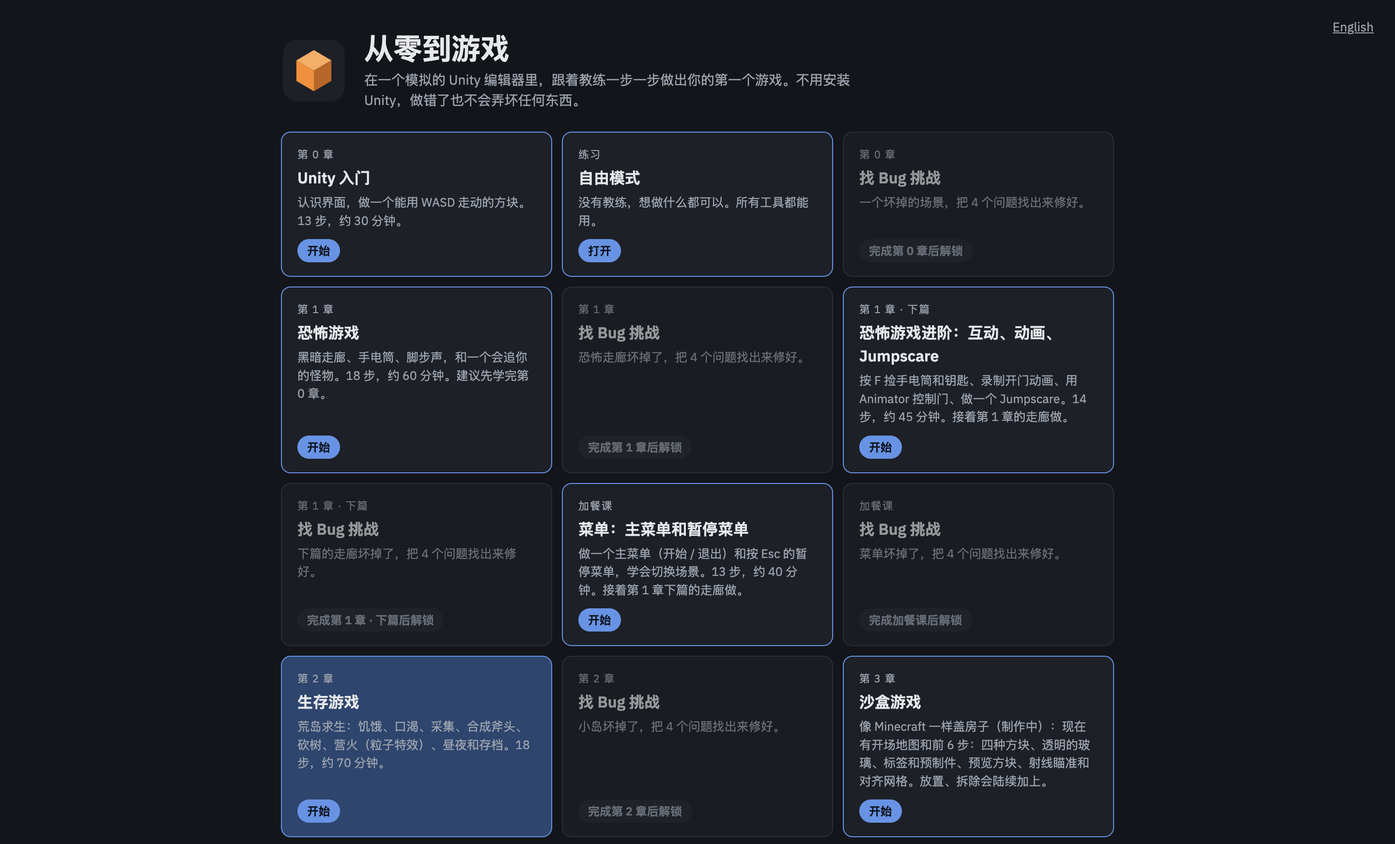
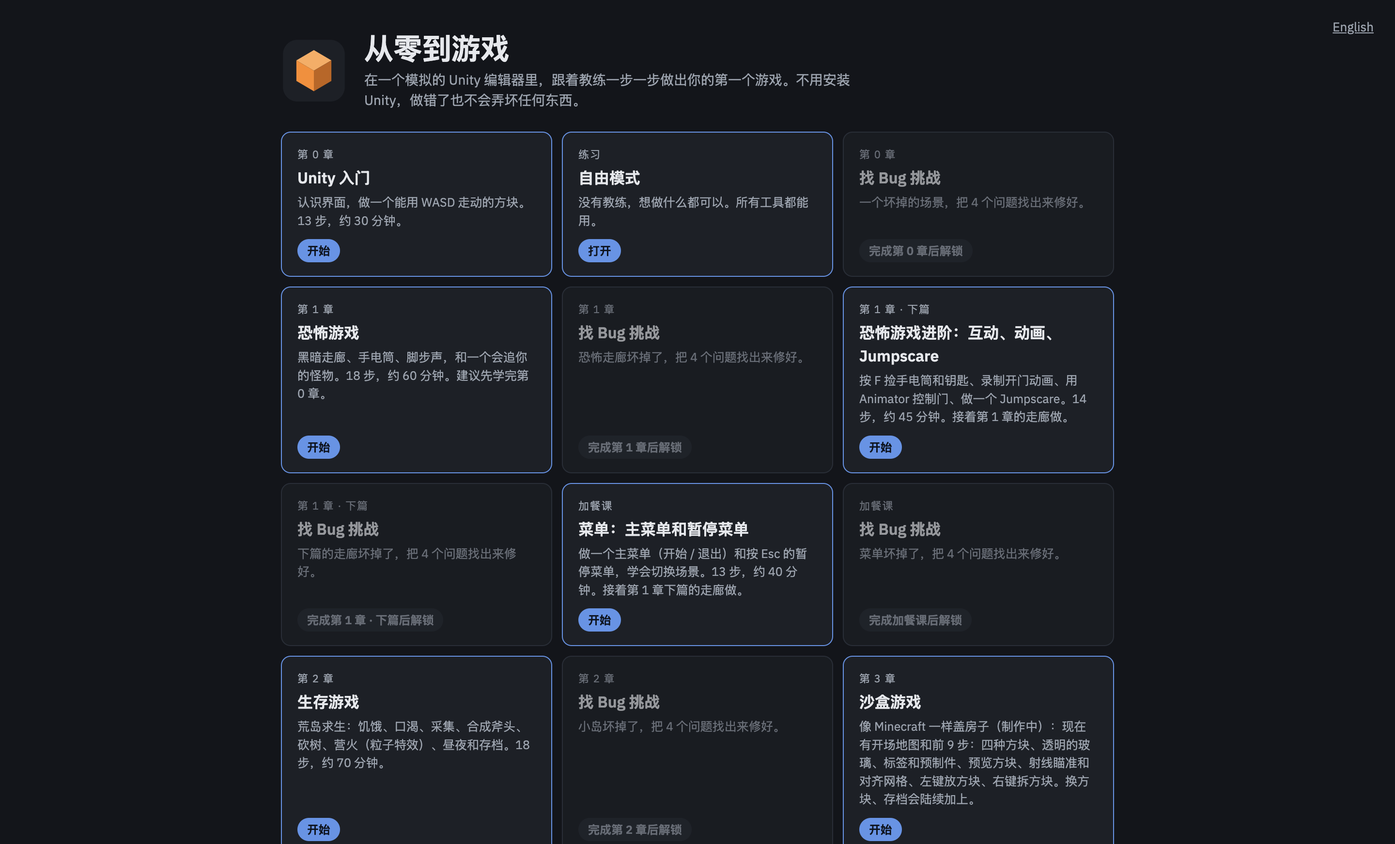
feat: chapter 3 placing and removing blocks
Adds chapter 3 steps 7-9 as BuildSystem versions 2-4: left-click places a
prefab with Instantiate, right-click removes Block-tagged objects with
CompareTag + Destroy, and Physics.CheckBox stops placing inside the player
or another block. The editor now reads mouse buttons during Play, supports
prefab fields, and the export guide names referenced objects instead of ids.

Changed region(s): [[0.1875, 0.7741, 0.5, 1.0], [0.5938, 0.8979, 0.7812, 1.0]]

diff --git a/app/chapters/ch3.js b/app/chapters/ch3.js
@@ -1,6 +1,6 @@
 // 第 3 章：沙盒游戏 —— 像 Minecraft 一样在地图上盖房子（画面不是像素风，方块用平滑的颜色）。
 // 开场：一张做好的地图（沙滩、土地、城市）和一个做好的第一人称玩家。
-// 现在有前 6 步：准备（四种方块、透明的玻璃、标签 Block 和预制件）+ 瞄准（预览方块、BuildSystem 射线和网格、hit.normal）。放置、拆除之后再加。
+// 现在有前 9 步：准备（四种方块、透明的玻璃、标签 Block 和预制件）+ 瞄准（预览方块、BuildSystem 射线和网格、hit.normal）+ 放和拆（Instantiate、CompareTag + Destroy、Physics.CheckBox）。
 (() => {
 'use strict';
 const G = window.ZTG;
@@ -57,6 +57,12 @@ function refSlot(host, name, fid, target) {
   const s = scriptOn(host, name); if (!s || !target || s.vals[fid] === target.id) return null;
   return selFirst(host) || {from:H().row(target.id), to:slotSel(host, name, fid, 'ref'), label:T(`把 ${target.name} 拖进 ${fid} 格子`, `Drag ${target.name} into the ${fid} slot`)};
 }
+// 把项目窗口里的预制件拖进脚本的 GameObject 格子
+function prefabSlot(host, name, fid, pa) {
+  const s = scriptOn(host, name); if (!s || !pa || s.vals[fid] === pa.id) return null;
+  const r = H().reach(pa); if (r.nav) return r;
+  return selFirst(host) || {from:r.at, to:slotSel(host, name, fid, 'pref'), label:T(`把预制件 ${pa.name} 拖进 ${fid} 格子`, `Drag the ${pa.name} prefab into the ${fid} slot`)};
+}
 const refOk = (host, name, fid, target) => { const s = scriptOn(host, name); return !!s && !!target && s.vals[fid] === target.id; };
 const playStep = (doneFlag, during) => {
   if (!G.S.playing) return doneFlag ? null : {at:'#playbtn', label:T('点播放', 'Click Play')};
@@ -76,6 +82,8 @@ const glassMat = () => matNamed('Glass_Mat');
 const glassOk = m => !!m && m.surface === 'transparent' && m.alpha != null && m.alpha <= .6 && m.alpha >= .05 && isBlue(m.color);
 const prefabOf = n => Object.values(G.S.prefabs).find(pf => pf.name === n && G.asset(pf.assetId));
 const hasTag = () => G.allTags().includes('Block');
+const prefabAsset = n => { const pf = prefabOf(n); return pf ? G.asset(pf.assetId) : null; };
+const bsRt = () => { const a = scriptA('BuildSystem'); return a && a.comp ? a.comp.rt : {}; };
 const preview = () => G.S.objs.find(o => o.type === 'cube' && o.name === 'Preview');
 const lum = c => { const [r, g, b] = rgb(c); return .2126 * r + .7152 * g + .0722 * b; };
 const isLight = c => lum(c) > .75;
@@ -200,17 +208,60 @@ const STEPS = [
   hint:T('新加的那一行左边有一条绿线。真 Unity 里没有这个按钮，你要自己把这一行打进去。', 'The new line has a green bar on its left. Real Unity has no such button — you’d type the line yourself.'),
   note:T('现在对着方块的顶面、侧面，预览都会贴在外面：下一步就可以放方块了。', 'Now the preview sits outside both the top and the sides of a block — ready for placing blocks next.'),
   auto:() => { if (G.S.playing) G.stopPlay(); const c = cam(); if (!c) return; const pv = preview(); const s = attach(c, 'BuildSystem', 1); if (pv) s.vals.preview = pv.id; G.S.flags.sideAim = true; }},
+
+ // 7
+ {title:T('左键放方块', 'Left-click to place a block'), glow:() => G.S.playing ? ['#playbtn'] : ['#p-proj', '#p-insp'], play:true, upgrade:{name:'BuildSystem', ver:2},
+  point:() => { const c = cam(); if (!c) return null;
+    if (!G.S.playing) { const sf = scriptFlow('BuildSystem', c, 2); if (sf) return sf; const r = prefabSlot(c, 'BuildSystem', 'block', prefabAsset('Dirt')); if (r) return r; }
+    return playStep((G.S.flags.placed || 0) >= 3, {at:'#cwrap', label:T('看着地面按鼠标左键，放 3 个方块', 'Look at the ground and left-click to place 3 blocks')}); },
+  body:T('打开 BuildSystem，点「加入这一步的新代码」：按鼠标 <b>左键</b> 就调用 Place()，它用 <b>Instantiate</b> 照着预制件复制出一个新方块，放在预览的位置。填好 2 个空，保存，再把项目窗口里的 <b>Dirt 预制件</b> 拖进检查器的 Block 格子。点播放，放几个方块，还可以叠高。',
+         'Open BuildSystem and click “Add this step’s code”: a <b>left-click</b> calls Place(), which uses <b>Instantiate</b> to make a new copy of the prefab where the preview is. Fill the 2 blanks, save, then drag the <b>Dirt prefab</b> from the Project window into the Block slot in the Inspector. Press Play and place a few blocks — you can stack them too.'),
+  conds:[[T('加入这一步的新代码，填好 2 个空并保存', 'Add this step’s code, fill the 2 blanks and save'), () => codeOk('BuildSystem', 2) && bsRt().left === 'Mouse0'],
+         [T('把 Dirt 预制件拖进 Block 格子', 'Drag the Dirt prefab into the Block slot'), () => { const s = scriptOn(cam(), 'BuildSystem'), pa = prefabAsset('Dirt'); return !!s && !!pa && s.vals.block === pa.id; }],
+         [T('点播放，用左键放 3 个方块', 'Press Play and place 3 blocks with left-click'), () => (G.S.flags.placed || 0) >= 3]],
+  hint:T('第一次点画面是让鼠标锁住（用来转头），这一下也会放一个方块，和真 Unity 一样。放出来的方块会出现在层级最下面；停止播放后它们都会消失，这是播放模式，存档在后面做。', 'The first click locks the mouse (for looking around), and that click also places a block — same as real Unity. New blocks appear at the bottom of the Hierarchy; they all vanish when you stop, because it’s Play mode. Saving comes later.'),
+  note:T('低头看脚下再按左键试试：方块会放在你站的地方，你会被弹到方块上面（有时会卡住）。第 9 步修好它。', 'Look down at your feet and left-click: the block lands where you stand and pops you up on top of it (sometimes you get stuck). Step 9 fixes that.'),
+  auto:() => { if (G.S.playing) G.stopPlay(); const c = cam(); if (!c) return; const s = attach(c, 'BuildSystem', 2); const pv = preview(), pa = prefabAsset('Dirt'); if (pv) s.vals.preview = pv.id; if (pa) s.vals.block = pa.id; G.S.flags.placed = 3; }},
+
+ // 8
+ {title:T('右键拆方块', 'Right-click to remove a block'), glow:() => G.S.playing ? ['#playbtn'] : ['#p-proj'], play:true, upgrade:{name:'BuildSystem', ver:3},
+  point:() => { const c = cam(); if (!c) return null; const F = G.S.flags;
+    if (!G.S.playing) { const sf = scriptFlow('BuildSystem', c, 3); if (sf) return sf; }
+    if (!(F.removed >= 1)) return playStep(false, {at:'#cwrap', label:T('看着一个方块按鼠标右键', 'Look at a block and right-click')});
+    return playStep(F.removeRefused, {at:'#cwrap', label:T('看着楼或地面按右键：拆不掉', 'Right-click a building or the ground: it won’t go')}); },
+  body:T('再加一步代码：按 <b>右键</b> 调用 Remove()。它先用 <b>CompareTag</b> 看打中的东西是不是贴着 Block 标签（第 3 步贴的），是的话才用 <b>Destroy</b> 删掉。填好 2 个空，保存。播放：右键能拆方块，但楼和地面拆不掉。',
+         'One more piece of code: a <b>right-click</b> calls Remove(). It first uses <b>CompareTag</b> to check that what we hit wears the Block tag (from step 3), and only then deletes it with <b>Destroy</b>. Fill the 2 blanks and save. Play: right-click removes blocks, but buildings and the ground stay.'),
+  conds:[[T('加入这一步的新代码，填好 2 个空并保存', 'Add this step’s code, fill the 2 blanks and save'), () => codeOk('BuildSystem', 3) && bsRt().tag === 'Block'],
+         [T('点播放，右键拆掉一个方块', 'Press Play and remove a block with right-click'), () => (G.S.flags.removed || 0) >= 1],
+         [T('右键点楼或地面：拆不掉', 'Right-click a building or the ground: it won’t be removed'), () => !!G.S.flags.removeRefused]],
+  hint:T('标签名要一字不差：写成 block（小写）的话，控制台会报「Tag: block is not defined」。', 'The tag must match exactly: writing block (lowercase) makes the Console say “Tag: block is not defined”.'),
+  note:T('一开始排好的四个方块也贴着 Block，所以也拆得掉。', 'The four blocks you lined up at the start also wear Block, so they can be removed too.'),
+  auto:() => { if (G.S.playing) G.stopPlay(); const c = cam(); if (!c) return; attach(c, 'BuildSystem', 3); Object.assign(G.S.flags, {removed:1, removeRefused:true}); }},
+
+ // 9
+ {title:T('不能放在自己身上', 'Not inside yourself'), glow:() => G.S.playing ? ['#playbtn'] : ['#p-proj'], play:true, upgrade:{name:'BuildSystem', ver:4},
+  point:() => { const c = cam(); if (!c) return null;
+    if (!G.S.playing) { const sf = scriptFlow('BuildSystem', c, 4); if (sf) return sf; }
+    return playStep(G.S.flags.blockedSelf, {at:'#cwrap', label:T('低头看脚下，按左键：放不下去', 'Look down at your feet and left-click: nothing is placed')}); },
+  body:T('现在低头看脚下按左键，方块会放在你站的地方，把你弹到上面或卡住。加最后一行代码：放之前先用 <b>Physics.CheckBox</b> 问「这一格里有没有东西」。你自己（角色控制器）也算东西，所以就放不下去了；已经有方块的格子也一样。',
+         'Right now, looking down at your feet and left-clicking puts a block where you stand, popping you up or getting you stuck. Add one last line: before placing, ask <b>Physics.CheckBox</b> “is anything in this cell?”. You (the Character Controller) count, so nothing is placed — same for a cell that already holds a block.'),
+  conds:[[T('加入这一步的新代码，填好空并保存', 'Add this step’s code, fill the blank and save'), () => codeOk('BuildSystem', 4)],
+         [T('点播放，低头看脚下按左键：放不下去', 'Press Play, look down at your feet and left-click: nothing is placed'), () => !!G.S.flags.blockedSelf]],
+  hint:T('Vector3.one * 0.45f 是盒子的「半边长」：整个盒子 0.9 米，比一格小一点，旁边贴着的方块才不会算进去。', 'Vector3.one * 0.45f is the box’s half-size: the whole box is 0.9 m, a bit smaller than a cell, so blocks touching from the side don’t count.'),
+  note:T('放和拆都做好了：现在可以盖东西了。下一部分：按 1-4 换方块。', 'Placing and removing both work: you can build now. Next part: switching blocks with 1-4.'),
+  auto:() => { if (G.S.playing) G.stopPlay(); const c = cam(); if (!c) return; attach(c, 'BuildSystem', 4); G.S.flags.blockedSelf = true; }},
 ];
 
 
+
 const FINISH = {
- zh:`<div class="finish"><div class="gstep">完成</div><h2>第 3 章前 6 步完成：准备和瞄准</h2>
-<p>你做好了四种方块（土、沙、砖、玻璃）、透明的玻璃、标签 Block 和预制件；还做了半透明的预览方块，用射线（Raycast）和 Mathf.Floor 让它对齐网格，用 hit.normal 让它贴在面的外面。</p>
-<div class="note">下一部分：按左键放方块、右键拆方块、不能放在自己身上。这部分还在制作中。</div>
+ zh:`<div class="finish"><div class="gstep">完成</div><h2>第 3 章前 9 步完成：准备、瞄准、放和拆</h2>
+<p>你做好了四种方块（土、沙、砖、玻璃）、透明的玻璃、标签 Block 和预制件；还做了半透明的预览方块，用射线（Raycast）和 Mathf.Floor 让它对齐网格，用 hit.normal 让它贴在面的外面；最后用 Instantiate 放方块、CompareTag 和 Destroy 拆方块、Physics.CheckBox 不让方块放在自己身上。</p>
+<div class="note">下一部分：按 1-4 换方块、快捷栏、灰尘和声音、JSON 存档。这部分还在制作中。</div>
 <div class="gact"><button class="btn primary" data-act="quiz">小测验</button><button class="btn" data-act="export">导出到真 Unity</button><button class="btn" data-act="reset">再做一遍</button><button class="btn quiet" data-act="home">回到主页</button></div></div>`,
- en:`<div class="finish"><div class="gstep">Done</div><h2>Chapter 3, first 6 steps complete: getting ready and aiming</h2>
-<p>You made four kinds of blocks (dirt, sand, brick, glass), see-through glass, a Block tag and prefabs; then a see-through preview block that snaps to the grid with a Raycast and Mathf.Floor, and sits outside faces thanks to hit.normal.</p>
-<div class="note">Next part: left-click to place blocks, right-click to remove them, and not building inside yourself. It’s still being made.</div>
+ en:`<div class="finish"><div class="gstep">Done</div><h2>Chapter 3, first 9 steps complete: getting ready, aiming, placing and removing</h2>
+<p>You made four kinds of blocks (dirt, sand, brick, glass), see-through glass, a Block tag and prefabs; then a see-through preview block that snaps to the grid with a Raycast and Mathf.Floor, and sits outside faces thanks to hit.normal; finally Instantiate places blocks, CompareTag and Destroy remove them, and Physics.CheckBox keeps blocks out of your own body.</p>
+<div class="note">Next part: switching blocks with 1-4, a hotbar, dust and sounds, and JSON saving. It’s still being made.</div>
 <div class="gact"><button class="btn primary" data-act="quiz">Quiz</button><button class="btn" data-act="export">Export to real Unity</button><button class="btn" data-act="reset">Do it again</button><button class="btn quiet" data-act="home">Back to home</button></div></div>`};
 
 // 开场地图：海在最下面兜底；沙滩、土地、城市三块地并排（每块 10 × 20 米）；城市里有马路、四栋楼和路灯
@@ -233,7 +284,7 @@ function setup() {
   G.saveScene(); G.S.flags.saved = false; G.S.logs.length = 0;
 }
 
-// 找 Bug 挑战：做完前面的步骤，再弄坏 3 个地方
+// 找 Bug 挑战：做完前面的步骤，再弄坏 4 个地方
 const BUGS = {
  setup:() => {
   setup(); STEPS.forEach(st => { if (st.enter) st.enter(); st.auto(); }); G.closeFloat(); G.select(null);
@@ -241,6 +292,7 @@ const BUGS = {
   const m = glassMat(); if (m) m.surface = 'opaque';
   const pf = prefabOf('Glass'); if (pf) pf.tag = 'Untagged'; const g = cube('Glass'); if (g) g.tag = 'Untagged';
   const pv = preview(); if (pv) pv.col = {kind:'box', trigger:false, seq:1};
+  const bs = scriptA('BuildSystem'); if (bs) { bs.blanks.tag = 'block'; G.compileScript(bs); }
   G.S.cwd = 0; G.saveScene(); },
  list:[
   {title:T('玻璃一点都不透明', 'The glass isn’t see-through at all'),
@@ -251,7 +303,10 @@ const BUGS = {
    check:() => { const pf = prefabOf('Glass'); return !!pf && pf.tag === 'Block'; }},
   {title:T('播放时预览方块一直往你脸上跑，还一闪一闪的', 'In Play the preview block keeps creeping toward your face and flickering'),
    hint:T('射线打中了谁？看游戏视图下面的「射线打中」。选中 Preview，看它有没有不该有的组件。', 'What is the ray hitting? Check “Ray hits” at the bottom of the Game view. Select Preview and look for a component it shouldn’t have.'),
-   check:() => !!preview() && !preview().col}]};
+   check:() => !!preview() && !preview().col},
+  {title:T('右键拆不掉方块，控制台还有红字', 'Right-click doesn’t remove blocks, and the Console shows a red error'),
+   hint:T('播放后右键点一个方块，看控制台的红字说哪个标签不存在。打开 BuildSystem，看 CompareTag 里写的标签名，大小写对吗？', 'Play, right-click a block, and read the red error: which tag doesn’t exist? Open BuildSystem and check the tag name in CompareTag — are the capitals right?'),
+   check:() => { const a = scriptA('BuildSystem'); return !!a && !!a.comp && a.comp.ok && a.comp.rt.tag === 'Block'; }}]};
 
 const QUIZ = [
  {q:T('Glass_Mat 的透明度 A 是 0.35，可是玻璃还是不透明。最可能是什么原因？', 'Glass_Mat has Alpha 0.35, but the glass is still solid. What’s the most likely reason?'),
@@ -271,7 +326,13 @@ const QUIZ = [
   w:T('normal 是那一面朝外的方向：顶面朝上，侧面朝左右前后。', 'normal is the direction the face points: up for the top, sideways for the sides.')},
  {q:T('预览方块为什么要移除碰撞体？', 'Why remove the preview block’s collider?'),
   o:[T('让它变透明', 'To make it see-through'), T('不然射线会打中预览自己，它会一直往你脸上跑', 'Otherwise the ray hits the preview itself and it creeps toward your face'), T('让它掉下去', 'So it falls'), T('省电', 'To save power')], a:1,
-  w:T('射线只打得到有碰撞体的东西；预览只是给你看的，不需要碰撞。', 'Rays only hit colliders; the preview is just for show and needs no collisions.')}];
+  w:T('射线只打得到有碰撞体的东西；预览只是给你看的，不需要碰撞。', 'Rays only hit colliders; the preview is just for show and needs no collisions.')},
+ {q:T('Instantiate(block, target, Quaternion.identity) 做了什么？', 'What does Instantiate(block, target, Quaternion.identity) do?'),
+  o:[T('删掉 block', 'Deletes block'), T('照着预制件 block 复制一个新物体，放在 target', 'Makes a new copy of the block prefab at target'), T('把 block 变透明', 'Makes block see-through'), T('存档', 'Saves the game')], a:1,
+  w:T('Quaternion.identity 是「不旋转」。播放时复制出来的物体，停止后会消失。', 'Quaternion.identity means “no rotation”. Copies made during Play vanish when you stop.')},
+ {q:T('Physics.CheckBox 在放方块之前问的是什么？', 'What does Physics.CheckBox ask before a block is placed?'),
+  o:[T('这一格里有没有碰撞体（例如你自己）', 'Is any collider in this cell (like you)?'), T('鼠标有没有按下', 'Is the mouse pressed?'), T('方块是什么颜色', 'What color is the block?'), T('标签对不对', 'Is the tag right?')], a:0,
+  w:T('有东西就不放：不会把方块放进自己身体里，也不会两个方块叠在同一格。', 'If something is there, nothing is placed: no blocks inside your body, and never two blocks in one cell.')}];
 
 const EXPORT_INTRO = {
  zh:'# 在真 Unity 里做「沙盒游戏」的准备\n\n1. 用 Unity Hub 安装 Unity 6.3 LTS，新建项目，模板选 **Universal 3D**。\n2. 把这个压缩包里的 `Assets/Scripts` 文件夹拖进 Unity 的项目窗口。\n3. 透明材质：选中材质，在 Surface Options 里把 Surface Type 改成 Transparent，再点 Base Map 的颜色，把 A 调低。\n4. 新标签：选中物体，检查器最上面 Tag → Add Tag…，在 Tags 下面点 +。\n5. 照下面的清单，一个一个建出物体、材质和设置。\n',

diff --git a/app/scripts.js b/app/scripts.js
@@ -997,13 +997,19 @@ const SaveGame = {
 // ---------- 第 3 章：沙盒游戏 ----------
 // BuildSystem 是分版本的脚本：每一步在代码窗口点「加入这一步的新代码」，多出几行（v 从第几版开始有，upto 到第几版被换掉）
 const BuildSystem = {
-  name: 'BuildSystem', kind: 'build', maxVer: 1,
-  fields: [{ id: 'preview', label: 'Preview', type: 'transform', go: true, def: null }, { id: 'reach', label: 'Reach', type: 'float', def: 6 }],
+  name: 'BuildSystem', kind: 'build', maxVer: 4,
+  fields: [{ id: 'preview', label: 'Preview', type: 'transform', go: true, def: null }, { id: 'reach', label: 'Reach', type: 'float', def: 6 },
+           { id: 'block', label: 'Block', type: 'prefab', v: 2, def: null }],
   blanks: [
     { id: 'ray', w: 7, tip: { zh: '从一个点往一个方向射线：Raycast', en: 'Shoot a ray from a point in a direction: Raycast' } },
     { id: 'floor', w: 5, tip: { zh: '往下取整：Floor', en: 'Round down: Floor' } },
-    { id: 'normal', w: 6, v: 1, tip: { zh: '打中的那一面朝外的方向：normal', en: 'The direction the hit face points: normal' } }],
-  answers: { ray: 'Raycast', floor: 'Floor', normal: 'normal' },
+    { id: 'normal', w: 6, v: 1, tip: { zh: '打中的那一面朝外的方向：normal', en: 'The direction the hit face points: normal' } },
+    { id: 'left', w: 10, v: 2, tip: { zh: '鼠标左键：leftButton', en: 'The left mouse button: leftButton' } },
+    { id: 'inst', w: 11, v: 2, tip: { zh: '照着预制件复制一个：Instantiate', en: 'Make a copy of a prefab: Instantiate' } },
+    { id: 'tag', w: 5, v: 3, tip: { zh: '方块的标签名：Block', en: 'The blocks’ tag name: Block' } },
+    { id: 'destroy', w: 7, v: 3, tip: { zh: '删掉物体：Destroy', en: 'Delete an object: Destroy' } },
+    { id: 'box', w: 8, v: 4, tip: { zh: '看一个盒子里有没有东西：CheckBox', en: 'Check whether anything is inside a box: CheckBox' } }],
+  answers: { ray: 'Raycast', floor: 'Floor', normal: 'normal', left: 'leftButton', inst: 'Instantiate', tag: 'Block', destroy: 'Destroy', box: 'CheckBox' },
   compile(b, ver) {
     const E = [], rt = {};
     const r = val(b, 'ray');
@@ -1019,14 +1025,38 @@ const BuildSystem = {
       else if (n === 'normal' || n === 'point') rt.normal = n;
       else E.push({ b: 'normal', code: 'CS1061', en: `'RaycastHit' does not contain a definition for '${n}' and no accessible extension method '${n}' accepting a first argument of type 'RaycastHit' could be found (are you missing a using directive or an assembly reference?)`, zh: `RaycastHit 没有「${n}」。那一面朝外的方向叫 normal（全小写）。` });
     }
+    if (ver >= 2) {
+      // 鼠标的三个键都能编译；写成 rightButton 的话，左右就反了
+      const l = val(b, 'left'), btn = { leftButton: 'Mouse0', middleButton: 'Mouse1', rightButton: 'Mouse2' };
+      if (!l) E.push({ b: 'left', code: 'CS1001', en: 'Identifier expected', zh: '点号后面空着，要填 leftButton。' });
+      else if (btn[l]) rt.left = btn[l];
+      else E.push({ b: 'left', code: 'CS1061', en: `'Mouse' does not contain a definition for '${l}' and no accessible extension method '${l}' accepting a first argument of type 'Mouse' could be found (are you missing a using directive or an assembly reference?)`, zh: `鼠标没有「${l}」。左键要写 leftButton（B 大写）。` });
+      const ins = val(b, 'inst');
+      if (!ins) E.push({ b: 'inst', code: 'CS1525', en: "Invalid expression term '('", zh: '等号后面空着，要填 Instantiate。' });
+      else if (ins !== 'Instantiate') E.push({ b: 'inst', code: 'CS0103', en: `The name '${ins}' does not exist in the current context`, zh: `电脑不认识「${ins}」。复制预制件要写 Instantiate（I 大写）。` });
+    }
+    if (ver >= 3) {
+      rt.tag = val(b, 'tag');
+      if (/"/.test(rt.tag)) E.push({ b: 'tag', code: 'CS1026', en: ') expected', zh: '引号里面只写标签名 Block，不用再加引号。' });
+      const d = val(b, 'destroy');
+      if (!d) E.push({ b: 'destroy', code: 'CS1525', en: "Invalid expression term '('", zh: '这里空着，要填 Destroy。' });
+      else if (d !== 'Destroy') E.push({ b: 'destroy', code: 'CS0103', en: `The name '${d}' does not exist in the current context`, zh: `电脑不认识「${d}」。删掉物体要写 Destroy（D 大写）。` });
+    }
+    if (ver >= 4) {
+      const x = val(b, 'box');
+      if (!x) E.push({ b: 'box', code: 'CS1001', en: 'Identifier expected', zh: '点号后面空着，要填 CheckBox。' });
+      else if (x !== 'CheckBox') E.push({ b: 'box', code: 'CS0117', en: `'Physics' does not contain a definition for '${x}'`, zh: `Physics 没有「${x}」。看盒子里有没有东西要写 CheckBox（C、B 大写）。` });
+    }
     return { errors: E, rt };
   },
   lines: [
     { c: ['using UnityEngine;'] },
+    { c: ['using UnityEngine.InputSystem;'], v: 2, x: { zh: '引入新版输入系统，才能读鼠标按键。', en: 'Brings in the new Input System so we can read the mouse buttons.' } },
     { c: [''] },
     { c: ['public class BuildSystem : MonoBehaviour'], x: { zh: '盖房子的脚本，挂在主摄像机上：从屏幕中间（准星）往前射一条线，打中哪里，预览方块就对齐网格放到哪里。', en: 'The building script, on the Main Camera: it shoots a ray straight out of the screen center (the crosshair), and the preview block snaps to the grid wherever it hits.' } },
     { c: ['{'] },
     { c: ['    public GameObject preview;'], err: 'noPreview', x: { zh: '半透明的预览方块。把层级里的 Preview 拖进检查器的这一格。', en: 'The see-through preview block. Drag Preview from the Hierarchy into this slot in the Inspector.' } },
+    { c: ['    public GameObject block;'], v: 2, x: { zh: '要放的方块：把项目窗口里的预制件（例如 Dirt）拖进检查器的这一格。', en: 'The block to place: drag a prefab (like Dirt) from the Project window into this slot in the Inspector.' } },
     { c: ['    public float reach = 6f;'], x: { zh: '手能伸多远：射线最远 6 米。太远的地方放不了。', en: 'How far you can reach: the ray goes at most 6 meters. You can’t build farther away.' } },
     { c: ['    RaycastHit hit;'], x: { zh: '用来存射线打中的东西：打中了谁、打中的点、那一面朝哪。', en: 'Holds what the ray hit: which object, the hit point, and which way that face points.' } },
     { c: ['    Vector3 target;'], x: { zh: '方块要放进去的那一格的中心。', en: 'The center of the grid cell the block will go into.' } },
@@ -1041,8 +1071,24 @@ const BuildSystem = {
     { c: ['        Vector3 p = hit.point + hit.', B('normal'), ' * 0.5f;'], v: 1, run: 'update', x: { zh: 'hit.normal 是打中的那一面「朝外」的方向（例如顶面朝上、左边那面朝左）。从打中的点往外走半格，就一定落在旁边那一格里，不会钻进方块。', en: 'hit.normal is the direction the hit face points outward (the top points up, the left side points left). Stepping half a cell outward from the hit point always lands in the neighboring cell, never inside the block.' } },
     { c: ['        target = new Vector3(Snap(p.x), Snap(p.y), Snap(p.z));'], run: 'update', x: { zh: 'X、Y、Z 三个方向都对齐到格子中心。', en: 'Snap X, Y and Z to the center of a grid cell.' } },
     { c: ['        preview.transform.position = target;'], run: 'move', x: { zh: '把预览方块搬到那一格。', en: 'Move the preview block to that cell.' } },
+    { c: [''], v: 2, run: 'update' },
+    { c: ['        if (Mouse.current.', B('left'), '.wasPressedThisFrame) Place();'], v: 2, run: 'update', key: 'Mouse0', x: { zh: 'wasPressedThisFrame：这一帧刚按下去（按住不放不会一直放）。按左键就放一个方块。', en: 'wasPressedThisFrame: pressed down this very frame (holding it doesn’t keep placing). Left-click places a block.' } },
+    { c: ['        if (Mouse.current.rightButton.wasPressedThisFrame) Remove();'], v: 3, run: 'update', key: 'Mouse2', x: { zh: '按右键就拆掉看着的那个方块。', en: 'Right-click removes the block you’re looking at.' } },
     { c: ['    }'], run: 'update' },
     { c: [''] },
+    { c: ['    void Place()'], v: 2, run: 'trigger' },
+    { c: ['    {'], v: 2, run: 'trigger' },
+    { c: ['        if (Physics.', B('box'), '(target, Vector3.one * 0.45f)) return;'], v: 4, run: 'trigger', x: { zh: 'Physics.CheckBox：在 target 放一个看不见的盒子，问「里面有没有碰撞体」。有（例如你自己站在那里）就不放。半边长 0.45 比 0.5 小一点，旁边贴着的方块才不算。', en: 'Physics.CheckBox: puts an invisible box at target and asks “is any collider inside?”. If so (say, you’re standing there), don’t place. The half-size 0.45 is a bit less than 0.5, so blocks touching from the side don’t count.' } },
+    { c: ['        GameObject b = ', B('inst'), '(block, target, Quaternion.identity);'], v: 2, run: 'trigger', err: 'noBlock', x: { zh: 'Instantiate：照着预制件复制一个新物体，放在 target，不旋转（Quaternion.identity）。播放时新出来的方块会出现在层级里。', en: 'Instantiate: makes a new copy of the prefab at target with no rotation (Quaternion.identity). New blocks show up in the Hierarchy during Play.' } },
+    { c: ['        b.name = block.name;'], v: 2, run: 'trigger', x: { zh: '复制出来的名字会叫「Dirt(Clone)」，改回「Dirt」，层级比较好看，存档时也用得到。', en: 'Copies are named “Dirt(Clone)”; renaming them to “Dirt” keeps the Hierarchy tidy and helps with saving later.' } },
+    { c: ['    }'], v: 2, run: 'trigger' },
+    { c: [''], v: 2 },
+    { c: ['    void Remove()'], v: 3, run: 'trigger' },
+    { c: ['    {'], v: 3, run: 'trigger' },
+    { c: ['        if (hit.collider.CompareTag("', B('tag'), '"))'], v: 3, run: 'trigger', x: { zh: 'CompareTag：看打中的东西是不是贴着这个标签。只有方块贴了 Block，所以楼和地面拆不掉。标签名要一字不差，写错了 Unity 会报错。', en: 'CompareTag: checks whether what we hit has this tag. Only blocks have Block, so buildings and the ground can’t be removed. The name must match exactly or Unity reports an error.' } },
+    { c: ['            ', B('destroy'), '(hit.collider.gameObject);'], v: 3, run: 'trigger', x: { zh: 'Destroy：把这个物体删掉。', en: 'Destroy: deletes that object.' } },
+    { c: ['    }'], v: 3, run: 'trigger' },
+    { c: [''], v: 3 },
     { c: ['    float Snap(float v)'], run: 'update', x: { zh: '对齐网格：把任何数变成它所在那一格的中心。', en: 'Snap to the grid: turn any number into the center of the cell it falls in.' } },
     { c: ['    {'], run: 'update' },
     { c: ['        return Mathf.', B('floor'), '(v) + 0.5f;'], run: 'update', x: { zh: 'Mathf.Floor 是往下取整：2.7 → 2，-0.3 → -1。再加 0.5 就是这一格的中心（方块边长 1，中心在 .5 上）。写成 Round（四舍五入）也能编译，但方块会差半格。', en: 'Mathf.Floor rounds down: 2.7 → 2, -0.3 → -1. Adding 0.5 gives the cell’s center (blocks are 1 wide, centered on .5). Round also compiles, but blocks end up half a cell off.' } },

diff --git a/app/editor.js b/app/editor.js
@@ -684,7 +684,23 @@ function runBuild(o,s,a){const tm=tmplOf(a),rt=a.comp.rt,v=s.vals;let root=o;whi
   const st=agentState.get('bs'+o.id)||{cells:new Set()};agentState.set('bs'+o.id,st);st.cells.add(tg.join(','));if(st.cells.size>=4)S.flags.aimed=true;
   // 对着侧面：预览有没有钻进被打中的东西里
   if(Math.abs(h.n[1])<.5&&h.o.col){const b=wAABB(h.o,colBounds(h.o));const inside=!!b&&[0,1,2].every(k=>tg[k]>b[0][k]+.01&&tg[k]<b[1][k]-.01);if(inside)S.flags.sideInside=true;else if(rt.ver>=1&&rt.normal==='normal')S.flags.sideAim=true;}
+  if(rt.ver>=2&&pressedNow.has(rt.left||'Mouse0')){trigFlash.set(a.id,performance.now()+900);
+    const over=boxOverlap(tg,.45),self=over.some(q=>q.cc);
+    if(rt.ver>=4&&over.length){if(self)S.flags.blockedSelf=true;}
+    else{const pa=v.block!=null?asset(v.block):null,pf=pa&&S.prefabs[pa.prefabId];
+      if(!pf)unassigned(a,tm,'block','noBlock');else{const b=instantiate(pf,tg);b.name=pf.name;S.flags.placed=(S.flags.placed||0)+1;if(self)S.flags.selfStuck=true;}}}
+  if(rt.ver>=3&&pressedNow.has('Mouse2')){trigFlash.set(a.id,performance.now()+900);
+    if(!allTags().includes(rt.tag))onceErr(a,'tag_'+rt.tag,()=>logSrc('error','lNoTag',[rt.tag],a,logLineOf(tm,/CompareTag/)));
+    else if(h.o.tag===rt.tag){destroyObj(h.o);S.flags.removed=(S.flags.removed||0)+1;}else S.flags.removeRefused=true;}
   return true;}
+// Physics.CheckBox：这个盒子里有没有碰撞体（角色控制器也算；Ignore Raycast 层不算；触发器也算）
+function boxOverlap(c,hf){const mn=c.map(x=>x-hf),mx=c.map(x=>x+hf);
+  return S.objs.filter(q=>isActive(q)&&q.layer!=='Ignore Raycast'&&(q.col||q.cc)).filter(q=>{const b=q.col?wAABB(q,colBounds(q)):wAABB(q,CC_BOUNDS);return b&&[0,1,2].every(k=>b[0][k]<mx[k]&&b[1][k]>mn[k]);});}
+// Instantiate：照着预制件复制一个新物体（名字是「名字(Clone)」，和 Unity 一样）；播放结束后会跟着场景一起还原
+function instantiate(pf,pos){const o=mkObj(pf.type,pf.name+'(Clone)',pos.slice());o.mat=pf.mat;o.prefab=pf.id;o.rot=pf.rot.slice();o.tag=pf.tag||'Untagged';o.layer=pf.layer||'Default';
+  if(pf.type==='model'){o.model=pf.model;o.col={kind:'box',trigger:false,seq:0};}return o;}
+// Destroy：删掉物体和它的子物体
+function destroyObj(o){const kill=new Set(subtree(o).map(q=>q.id));S.objs=S.objs.filter(q=>!kill.has(q.id));}
 function runScripts(dt,onlyUnscaled){let moving=false;const ran=new Set();walkedPrev=walkedNow;walkedNow=new Set();playT+=dt;
   for(const o of S.objs){if(!isActive(o))continue;for(const s of o.scripts){const a=asset(s.asset);const tm=a&&LIB()[a.name];if(!s.enabled||!tm||!a.comp||!a.comp.ok)continue;if(onlyUnscaled&&tm.kind!=='pause')continue;ran.add(a.id);
     if(!s.vals)s.vals={speed:5};
@@ -1255,7 +1271,10 @@ function exportGuide(l){const zh=l==='zh',v3=v=>`(${v.map(fmt).join(', ')})`,out
     if(o.vol){const v=o.vol;out.push(`${ind}  - ${zh?'Volume 组件：Profile 点 New，再 Add Override → Post-processing → ':'Volume: click New for the Profile, then Add Override → Post-processing → '}${Object.keys(v.ov).map(k=>`${ZTG.tl('en',OVK[k])} (${OV[k].map(([pp])=>`${ZTG.tl('en','ov_'+pp)} ${fmt(v.ov[k][pp])}`).join(', ')})`).join('; ')||'—'}`);}
     if(o.anim)out.push(`${ind}  - Animator: Controller ${(asset(o.anim.ctrl)||{}).name||'None'}`);
     if(o.navs)out.push(`${ind}  - ${zh?'添加组件 → NavMesh Surface，点 Bake（需要 AI Navigation 包）':'Add Component → NavMesh Surface, click Bake (needs the AI Navigation package)'}`);
-    o.scripts.forEach(sc=>{const a=asset(sc.asset);if(!a)return;const vals=Object.entries(sc.vals||{}).map(([k,v])=>`${k} = ${Array.isArray(v)?v.map(id=>(asset(id)||{}).name).join(', '):typeof v==='number'?fmt(v):v!=null&&obj(v)?obj(v).name:'None'}`).join('; ');
+    o.scripts.forEach(sc=>{const a=asset(sc.asset);if(!a)return;const fl=tmplOf(a).fields||[];
+      const vals=Object.entries(sc.vals||{}).map(([k,v])=>{const f=fl.find(x=>x.id===k),ty=f?f.type:'';
+        const txt=Array.isArray(v)?v.map(id=>(asset(id)||{}).name).join(', '):ty==='transform'||ty==='ref'?(v!=null&&obj(v)?obj(v).name:'None'):ty==='aref'||ty==='prefab'?(v!=null&&asset(v)?asset(v).name:'None'):typeof v==='number'?fmt(v):v==null?'None':v;
+        return `${k} = ${txt}`;}).join('; ');
       out.push(`${ind}  - ${zh?'把脚本拖上去':'Drag the script onto it'}: ${a.name}${vals?` (${vals})`:''}`);});
     kids(o).forEach(k=>walk(k,d+1));};
   // 每个场景各列一次（菜单课有主菜单和走廊两个场景）
@@ -1288,7 +1307,7 @@ let drag=null;
 cv.addEventListener('contextmenu',e=>e.preventDefault());
 cv.addEventListener('pointerdown',e=>{
   winClick(S.tab);
-  if(S.tab==='game'){if(document.activeElement&&document.activeElement!==document.body)document.activeElement.blur();if(S.playing&&fpsActive()){lockMouse();drag={t:'look'};cv.setPointerCapture(e.pointerId);}return;}
+  if(S.tab==='game'){if(S.playing){pressedNow.add('Mouse'+e.button);keys.add('Mouse'+e.button);}if(document.activeElement&&document.activeElement!==document.body)document.activeElement.blur();if(S.playing&&fpsActive()){lockMouse();drag={t:'look'};cv.setPointerCapture(e.pointerId);}return;}
   const r=cv.getBoundingClientRect(),x=e.clientX-r.left,y=e.clientY-r.top;cv.setPointerCapture(e.pointerId);
   const o=selObj();
   if(e.button!==0||S.tool==='q'){drag={t:'orbit',x:e.clientX,y:e.clientY};return;}
@@ -1309,7 +1328,7 @@ cv.addEventListener('pointermove',e=>{if(!drag||drag.t==='look')return;const r=c
   else if(drag.t==='r'){const k=clamp(1+(e.clientX-drag.x)*.01,.1,6);drag.tg.forEach(q=>{if(q.prefab&&!q.scaleOverride)q.scaleOverride=true;q.scale=drag.scs.get(q.id).map(v=>v*k);});if(Math.abs(k-1)>.05)S.flags.scaled=true;refreshLive();}
 });
 const endDrag=()=>{if(drag&&drag.t!=='orbit'&&drag.t!=='look')commit();drag=null;};
-cv.addEventListener('pointerup',endDrag);cv.addEventListener('pointercancel',endDrag);
+cv.addEventListener('pointerup',e=>{keys.delete('Mouse'+e.button);endDrag();});cv.addEventListener('pointercancel',endDrag);
 cv.addEventListener('wheel',e=>{e.preventDefault();V.dist=clamp(V.dist*(1+e.deltaY*.0012),3,40);},{passive:false});
 function refreshLive(){syncInspector();checkGuide();}
 
@@ -1572,6 +1591,8 @@ function scriptHTML(o,s,i){const a=asset(s.asset),tm=a?tmplOf(a):null,nm=a?a.nam
     if(f.type==='text')return `<div class="vrow"><label>${esc(f.label)}</label><input class="hexin" data-bind="fs.${i}.${f.id}" value="${esc(v==null?f.def:v)}" aria-label="${esc(f.label)}"></div>`;
     if(f.type==='transform'||f.type==='ref'){const tg=v!=null?obj(v):null;const none=f.type==='ref'?`None (${REF_NAME[f.accept]||'Object'})`:f.go?'None (Game Object)':t('noneTransform');
       return `<div class="vrow"><label>${esc(f.label)}</label><div class="slot objref${tg?'':' none'}" data-drop="ref:${o.id}:${i}:${f.id}" title="${esc(t('dropObj'))}">${tg?objIcon(tg,12)+' '+esc(tg.name):esc(none)}${tg?`<span class="sp"></span><button class="ibtn rm" data-act="clrref" data-i="${i}" data-f="${f.id}" aria-label="✕">✕</button>`:''}</div></div>`;}
+    if(f.type==='prefab'){const it=v!=null?asset(v):null;
+      return `<div class="vrow"><label>${esc(f.label)}</label><div class="slot objref${it?'':' none'}" data-drop="pref:${o.id}:${i}:${f.id}" title="${esc(t('dropPrefab'))}">${it?assetIcon(it,12)+' '+esc(it.name):'None (Game Object)'}${it?`<span class="sp"></span><button class="ibtn rm" data-act="clrref" data-i="${i}" data-f="${f.id}" aria-label="✕">✕</button>`:''}</div></div>`;}
     if(f.type==='aref'){const it=v!=null?asset(v):null;
       return `<div class="vrow"><label>${esc(f.label)}</label><div class="slot objref${it?'':' none'}" data-drop="aref:${o.id}:${i}:${f.id}" title="${esc(t('dropAsset'))}">${it?assetIcon(it,12)+' '+esc(it.name):'None (Item Data)'}${it?`<span class="sp"></span><button class="ibtn rm" data-act="clrref" data-i="${i}" data-f="${f.id}" aria-label="✕">✕</button>`:''}</div></div>`;}
     if(f.type==='assetlist'){const list=(v||[]).map(id=>asset(id));
@@ -1774,6 +1795,8 @@ document.addEventListener('pointerup',e=>endDnD(e,true),true);document.addEventL
 document.addEventListener('click',e=>{if(suppress){e.stopPropagation();e.preventDefault();}},true);
 function performDrop(pl,tgt,x,y){const [kind,ids]=pl.split(':');const id=+ids;const dz=tgt&&tgt.closest('[data-drop]');if(!dz)return;const dv=dz.dataset.drop;
   if(kind==='asset'){const a=asset(id);if(!a)return;
+    if(dv.startsWith('pref:')){const [,oid,si,fid]=dv.split(':');const host=obj(+oid),s=host&&host.scripts[+si];if(!s)return;
+      if(a.type!=='prefab'){log('warn','lWrongRef','Prefab');toast(t('lWrongRef','Prefab'));commit();return;}s.vals=s.vals||{};s.vals[fid]=a.id;commit();return;}
     if(dv.startsWith('aref:')){const [,oid,si,fid]=dv.split(':');const host=obj(+oid),s=host&&host.scripts[+si];if(!s)return;
       if(a.type!=='itemdata'){log('warn','lWrongRef','ItemData');toast(t('lWrongRef','ItemData'));commit();return;}s.vals=s.vals||{};s.vals[fid]=a.id;commit();return;}
     if(dv.startsWith('alist:')){const [,oid,si,fid]=dv.split(':');const host=obj(+oid),s=host&&host.scripts[+si];if(!s)return;

diff --git a/app/i18n.js b/app/i18n.js
@@ -257,8 +257,8 @@ zh: {
   lArgNull:'ArgumentNullException: Value cannot be null. Parameter name: key 格子里没有放物品数据（Item Data）。',
   whyNoInv:'场景里找不到 Inventory（背包）脚本。它要挂在 Player 上。', whyNoStats:'找不到 SurvivalStats 脚本。它要挂在 Player 上。',
   // 第 3 章：沙盒游戏（透明材质、标签）
-  ch3desc:n=>`像 Minecraft 一样盖房子（制作中）：现在有开场地图和前 ${n} 步：四种方块、透明的玻璃、标签和预制件、预览方块、射线瞄准和对齐网格。放置、拆除会陆续加上。`,
-  codeUp:'＋ 加入这一步的新代码', lCodeUp:n=>`${n}.cs 加入了这一步的新代码（左边有绿线的行）。填好空，再保存。`,
+  ch3desc:n=>`像 Minecraft 一样盖房子（制作中）：现在有开场地图和前 ${n} 步：四种方块、透明的玻璃、标签和预制件、预览方块、射线瞄准和对齐网格、左键放方块、右键拆方块。换方块、存档会陆续加上。`,
+  dropPrefab:'把项目窗口里的预制件拖到这里', codeUp:'＋ 加入这一步的新代码', lCodeUp:n=>`${n}.cs 加入了这一步的新代码（左边有绿线的行）。填好空，再保存。`,
   bugsCard3:'方块坏掉了，把问题找出来修好。',
   surfaceType:'表面类型（Surface Type）', sf_opaque:'不透明（Opaque）', sf_transparent:'透明（Transparent）',
   addTagOpt:'Add Tag…（添加标签）', tagsT:'标签和层（Tags and Layers）', tagsM:'项目设置：标签和层…', tagsEmpty:'还没有自己加的标签。',
@@ -511,8 +511,8 @@ en: {
   lArgNull:'ArgumentNullException: Value cannot be null. Parameter name: key',
   whyNoInv:'', whyNoStats:'',
   // Chapter 3: sandbox (transparent materials, tags)
-  ch3desc:n=>`Build like Minecraft (in progress): the starting map and the first ${n} steps — four kinds of blocks, see-through glass, tags and prefabs, a preview block, aiming with a raycast and snapping to the grid. Placing and removing are coming next.`,
-  codeUp:'+ Add this step’s code', lCodeUp:n=>`Added this step’s code to ${n}.cs (the lines with a green bar). Fill the blanks, then save.`,
+  ch3desc:n=>`Build like Minecraft (in progress): the starting map and the first ${n} steps — four kinds of blocks, see-through glass, tags and prefabs, a preview block, aiming with a raycast, snapping to the grid, left-click to place and right-click to remove. Switching blocks and saving are coming next.`,
+  dropPrefab:'Drag a prefab from the Project window here', codeUp:'+ Add this step’s code', lCodeUp:n=>`Added this step’s code to ${n}.cs (the lines with a green bar). Fill the blanks, then save.`,
   bugsCard3:'The blocks are broken. Find and fix the problems.',
   surfaceType:'Surface Type', sf_opaque:'Opaque', sf_transparent:'Transparent',
   addTagOpt:'Add Tag…', tagsT:'Tags and Layers', tagsM:'Project Settings: Tags and Layers…', tagsEmpty:'No tags of your own yet.',

diff --git a/CLAUDE.md b/CLAUDE.md
@@ -66,7 +66,7 @@ app/scripts.js        内置 C# 脚本模板：FirstPersonMove（3 个空）、E
                       第 2 章：SurvivalStats（2 个空，饥饿 / 口渴 / 血量）、Inventory（1 个空，字典 + Tab）、DrinkWater、BerryBush、ItemPickup、
                       Crafting（1 个空，&&）、ChopTree、Campfire、SaveGame（2 个空）（PlayerMove 在 ch0.js）
 app/chapters/ch2.js    第 2 章（生存游戏）：setup 是空小岛 + 做好的第一人称玩家（会走路、会按 F 互动）；18 个 STEPS、BUGS、QUIZ、导出说明
-app/chapters/ch3.js    第 3 章（沙盒游戏，制作中）：setup 是沙滩 / 土地 / 城市地图 + 做好的第一人称玩家；现在有「准备」和「瞄准」6 步
+app/chapters/ch3.js    第 3 章（沙盒游戏，制作中）：setup 是沙滩 / 土地 / 城市地图 + 做好的第一人称玩家；现在有「准备」「瞄准」「放和拆」9 步
 app/chapters/chmenu.js 菜单课：setup 用第 1 章下篇做完的走廊；13 个 STEPS（MainMenu 场景 + 暂停菜单）、BUGS、QUIZ、导出说明
 app/chapters/ch1b.js  第 1 章下篇：setup 用第 1 章每一步的 auto 搭好走廊（怪物先关掉），14 个 STEPS、BUGS、QUIZ、导出说明
 app/audio.js          声音：Footstep、Drone、Growl、Scream 都用代码合成（Web Audio），不用下载；ZTG.audio.play() 返回可改音量 / 左右的句柄
@@ -192,7 +192,8 @@ xvfb-run -a -s "-screen 0 1600x1000x24" npx electron --no-sandbox --disable-gpu 
    - 已完成「一、准备」3 步（2026-10-26）：四种方块、透明的玻璃（材质 Surface Type + Alpha）、标签 Block（Tag → Add Tag…，`S.tags`）和预制件（预制件记住 tag，项目窗口选预制件可以改 Tag）。
    - 已完成「二、瞄准」3 步（2026-10-28）：预览方块（Preview_Mat 透明 + 移除盒碰撞体）、BuildSystem 第 0 版（Physics.Raycast + Mathf.Floor 对齐网格，挂在主摄像机上）、第 1 版（hit.point + hit.normal * 0.5f，贴在面的外面）。
    - 分版本脚本已经做好：模板写 `maxVer`，行 / 空格 / 字段写 `v`（从第几版开始）和 `upto`（到第几版被换掉）；`tmplOf(a)` 按 `a.ver` 返回过滤后的模板；步骤写 `upgrade:{name, ver}`，代码窗口就出现「加入这一步的新代码」，新行左边有绿线；章节写 `scriptVer` 决定课程里新建脚本从第几版开始。
-   - 还没做：左键放（Instantiate）、右键拆（CompareTag + Destroy）、不能放在自己身上（Physics.CheckBox）、按 1-4 换方块（数组）、快捷栏 UI、放下的灰尘（粒子爆发 + Stop Action Destroy）、PlayOneShot 声音、美化、JSON 存档（JsonUtility + File）、盖房子。计划把 BuildSystem 做成一个「分版本」的脚本：每一步在代码窗口点「加入这一步的代码」，新的几行出现，只填空。
+   - 已完成「三、放和拆」3 步（2026-10-29）：BuildSystem 第 2 版（Mouse.current.leftButton + Instantiate，Block 格子放预制件）、第 3 版（右键 CompareTag("Block") + Destroy）、第 4 版（Physics.CheckBox 0.45，不能放在有东西的格子里，包括玩家自己）。编辑器：播放时鼠标键记成 'Mouse0' / 'Mouse2'；`instantiate` / `destroyObj` / `boxOverlap`；新字段类型 `prefab`（拖预制件）。
+   - 还没做：按 1-4 换方块（数组）、快捷栏 UI、放下的灰尘（粒子爆发 + Stop Action Destroy）、PlayOneShot 声音、美化、JSON 存档（JsonUtility + File）、盖房子。计划把 BuildSystem 做成一个「分版本」的脚本：每一步在代码窗口点「加入这一步的代码」，新的几行出现，只填空。
 10. 发布新版本：发起人决定 v0.1.0 先保留（2026-10-26），要发布时再在最新的 main 上推新的版本号 tag，确认 Actions 产出三个平台的安装包。
 
 做任何会改变课程内容或方向的决定（章节顺序、步骤内容、换渲染技术）之前，先问发起人。

diff --git a/README.md b/README.md
@@ -86,7 +86,7 @@ npm run dist:linux   # Linux
 - 第 12–14 步：昼夜循环、营火（火焰和火星的粒子系统）、按 K 存档按 L 读档
 - 第 15–18 步：美化（调色盘、阳光和雾、后期处理），保存，完整玩一遍
 
-**第 3 章：沙盒游戏（制作中）**，现在有前 6 步。开场是一张做好的地图（沙滩、土地、城市）和一个第一人称玩家：
+**第 3 章：沙盒游戏（制作中）**，现在有前 9 步。开场是一张做好的地图（沙滩、土地、城市）和一个第一人称玩家：
 
 - 第 1 步：做四种方块：土、沙、砖、玻璃
 - 第 2 步：透明的玻璃：材质的表面类型改成「透明」，调低透明度 A
@@ -94,8 +94,11 @@ npm run dist:linux   # Linux
 - 第 4 步：半透明的预览方块（移除碰撞体，射线才不会打到它自己）
 - 第 5 步：BuildSystem 脚本：从准星射线，用 Mathf.Floor 对齐网格，预览一格一格跟着视线跳
 - 第 6 步：在代码窗口加入新的一行 hit.normal：对着墙的侧面，预览也贴在外面
+- 第 7 步：按左键放方块（Instantiate）
+- 第 8 步：按右键拆方块（CompareTag + Destroy），楼和地面拆不掉
+- 第 9 步：不能把方块放在自己站的地方（Physics.CheckBox）
 
-后面的放方块、拆方块、按 1-4 换方块、JSON 存档会陆续加上。
+后面的按 1-4 换方块、快捷栏、灰尘和声音、JSON 存档会陆续加上。
 
 **加餐课：主菜单和暂停菜单**，共 13 步，约 40 分钟。接着第 1 章下篇的走廊：
 
@@ -127,7 +130,7 @@ npm run dist:linux   # Linux
 - [x] 第 1 章下篇：互动（按 F）、钥匙和门、动画窗口和 Animator、Jumpscare
 - [x] 菜单课：主菜单（切换场景）和暂停菜单
 - [x] 第 2 章：生存游戏（数值、采集、合成、昼夜、营火粒子、存档）
-- [ ] 第 3 章：沙盒游戏（网格建造）—— 「准备」和「瞄准」6 步已完成
+- [ ] 第 3 章：沙盒游戏（网格建造）—— 「准备」「瞄准」「放和拆」9 步已完成
 - [ ] 第 4 章：美化通用篇（调色盘、灯光、Asset、装饰品摆放）
 
 ## 项目结构
